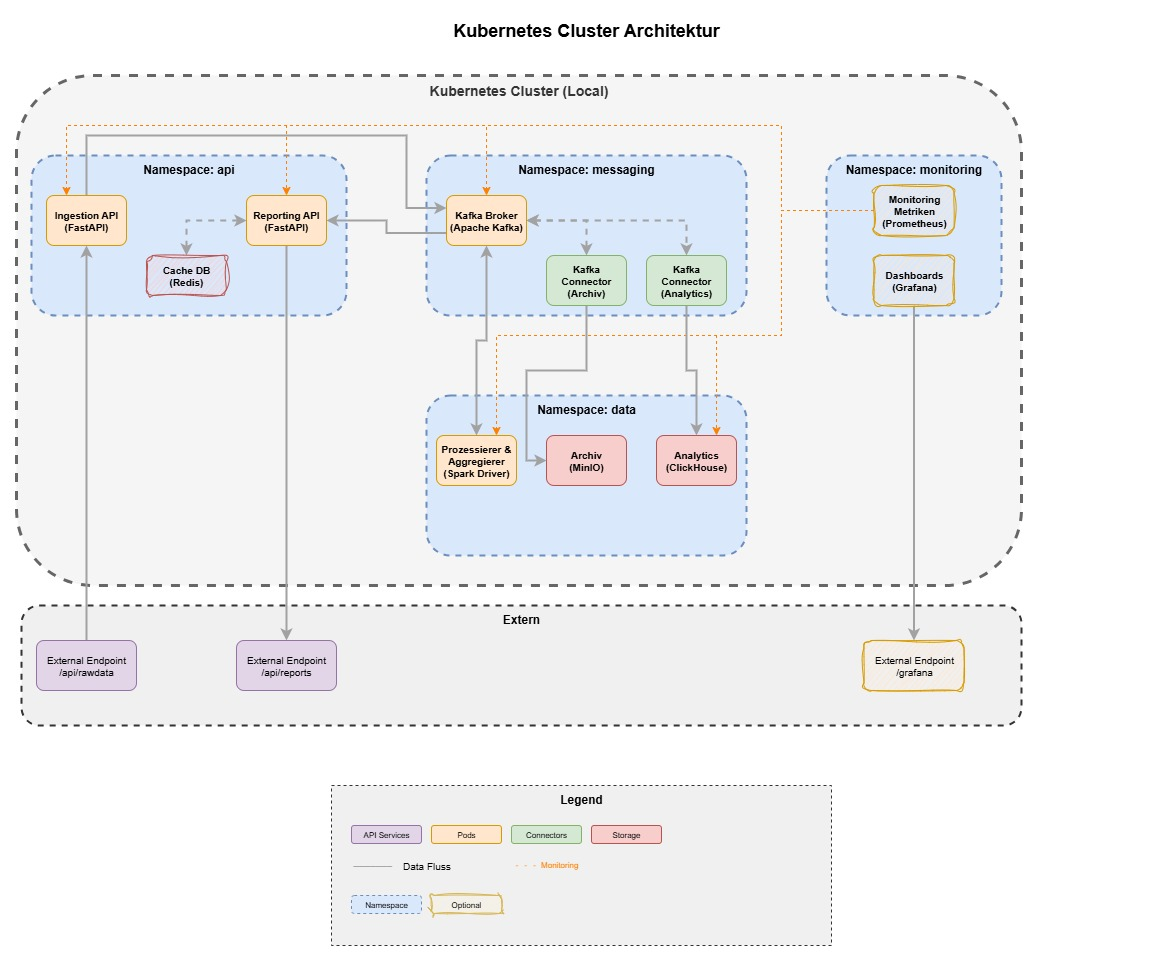
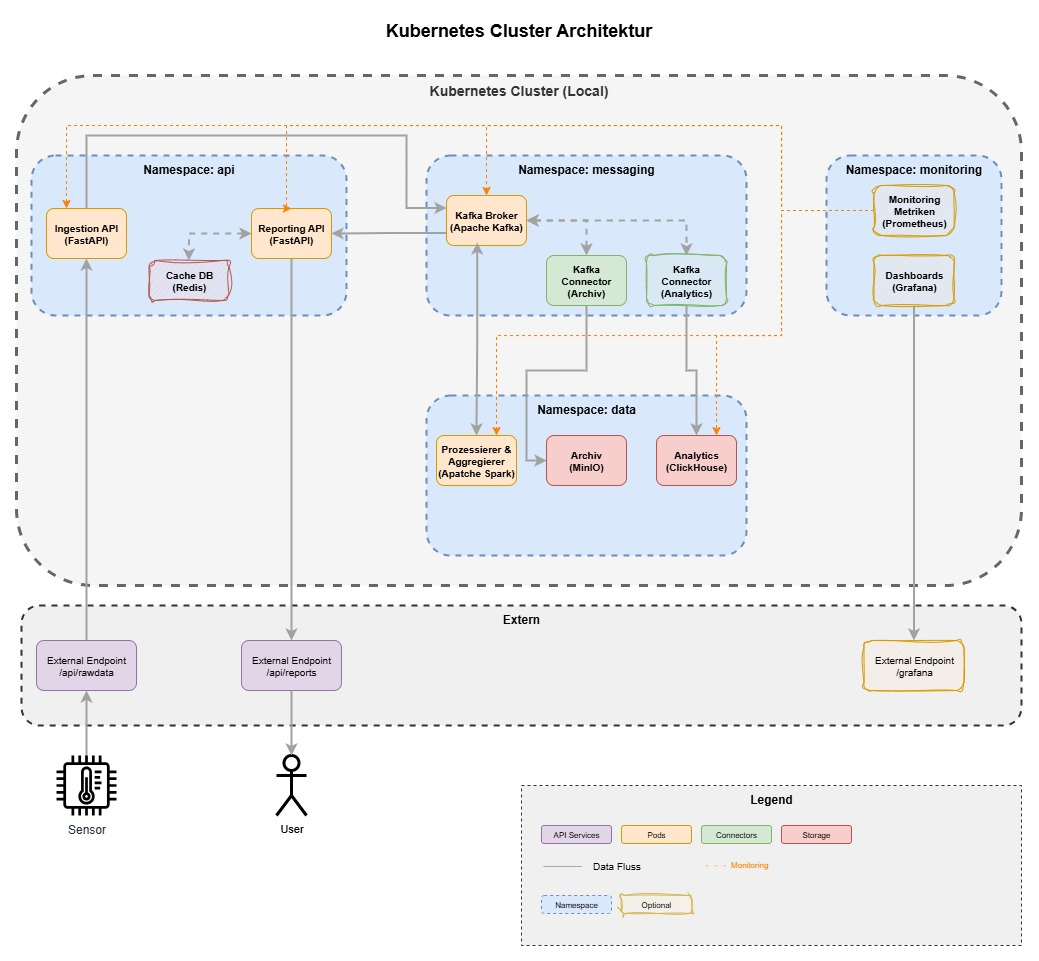
K8s-Architektur und neue K8s-Ressourcen-Bilddateien hinzugefügt

diff --git a/README.md b/README.md
@@ -1,8 +1,6 @@
 # DLMDWWDE02
 Master Data Engineering - System, was in der Lage ist, kontinuierlich massive Datenmengen auf zunehmen, diese auf effiziente Weise zu speichern, zu prozessieren, zu aggregieren, und für die direkte Nutzung  in einer Echtzeit-Reporting Applikation zur Verfügung zu stellen
 
-
-
 ## Requirements
 - Docker Engine
 - DockerCLI (winget install Docker.DockerCLI)
@@ -62,6 +60,18 @@ Für die **Datenvorprozessierung und Aggregation** kommt Apache Spark als zentra
 Die **Zuverlässigkeit, Skalierbarkeit und Wartbarkeit** des Systems werden durch verschiedene bewährte Technologien und Methoden sichergestellt. Kubernetes bildet dabei das Fundament für die Zuverlässigkeit, indem es automatische Neustarts fehlgeschlagener Pods durchführt, während Apache Kafka durch konfigurierbare Replikationsfaktoren für Datenredundanz sorgt. Persistent Volumes gewährleisten die Datenpersistierung über Pod-Neustarts hinweg, und umfassende Health Checks mit Liveness- und Readiness-Probes überwachen kontinuierlich den Zustand aller Services. Die Skalierbarkeit wird durch den Horizontal Pod Autoscaler (HPA) erreicht, der automatisch basierend auf CPU- und Memory-Verbrauch skaliert, ergänzt durch Kafka Partitioning für Parallelisierung, dynamische Spark Worker-Skalierung und ClickHouse Cluster für die Verarbeitung großer Datenmengen. Für die Wartbarkeit sorgen Helm Charts als Infrastructure as Code Lösung für reproduzierbare Deployments, GitOps für die Versionskontrolle aller Konfigurationen, umfassendes Monitoring mit Prometheus und Grafana sowie eine Microservice-Architektur mit lose gekoppelten, unabhängig deploybare Services.
 
 **Datenschutz, Datensicherheit und Data Governance** werden durch ein mehrstufiges Konzept gewährleistet. Der Datenschutz wird durch Namespace-Isolation zur Trennung der Microservices, Role-Based Access Control (RBAC) in Kubernetes und Network Policies zur Einschränkung der Pod-zu-Pod Kommunikation sichergestellt. Die Datensicherheit basiert auf TLS-Verschlüsselung für die gesamte Datenübertragung, Kubernetes Secrets Management für sichere Credential-Verwaltung, Server-side Encryption in MinIO für Objektspeicher und Database-level Access Control in ClickHouse. Für Data Governance sorgen eine zentrale Schema Registry für Kafka, umfassende Data Lineage Tracking zur Nachverfolgung des Datenflusses, Audit Logging aller Datenoperationen und automatisierte Retention Policies für die zeitgesteuerte Datenlöschung.
+
+**Datenschutz, Datensicherheit und Data Governance** werden entsprechend der implementierten Kubernetes-Architektur umgesetzt.
+
+**Datenschutz** wird auf Kubernetes-Ebene durch Namespace-basierte Isolation implementiert. Die Architektur trennt Services in dedizierte Namespaces: `api` für die FastAPI Services (Ingestion API, Reporting API), `messaging` für Kafka, `data` für Speicher-Services (ClickHouse, MinIO, Spark Driver) und `monitoring` für Prometheus und Grafana. Diese Segmentierung schafft Isolation zwischen den verschiedenen Funktionsbereichen und ermöglicht granulare Zugriffskontrolle.
+
+Die **Datensicherheit** konzentriert sich auf die tatsächlich implementierten Komponenten der Architektur. Kubernetes bietet grundlegende Sicherheit durch Namespace-Isolation und Pod-zu-Pod Kommunikationskontrolle. Die verwendeten Services unterstützen verschiedene Sicherheitsfeatures: Apache Kafka bietet optionale SSL/TLS-Verschlüsselung für Client-Verbindungen ([Kafka Security Documentation](https://kafka.apache.org/documentation/#security)), MinIO unterstützt Server-side Encryption für gespeicherte Objekte, und ClickHouse ermöglicht Benutzer-basierte Zugriffskontrolle auf Database-Level.
+
+Für **Data Governance** sind grundlegende Tracking-Mechanismen durch die Service-Architektur vorgesehen. Der Datenfluss ist klar definiert: Externe Daten gelangen über die Ingestion API zu Kafka, werden durch dedizierte Kafka Connectors zu ClickHouse (Analytics) und MinIO (Archiv) weitergeleitet, und der Spark Driver verarbeitet Daten aus Kafka für weitere Aggregationen. Redis fungiert als Cache für die Reporting API und reduziert die Belastung auf die primären Datenbanken.
+
+**Monitoring und Observability** werden durch die integrierte Prometheus-Grafana Kombination realisiert. Prometheus sammelt Metriken von allen Services (Ingestion API, Kafka, Spark Driver, ClickHouse) und ermöglicht die Überwachung der System-Performance. Grafana visualisiert diese Metriken über externe Endpunkte und bietet Dashboards für das Monitoring der Datenverarbeitungs-Pipeline.
+
+**Architektonische Sicherheitsaspekte** basieren auf der Microservice-Trennung durch Kubernetes Namespaces. Die Kafka Connectors fungieren als dedizierte Brücken zwischen Kafka und den Speicher-Services, wodurch direkte Service-zu-Service Abhängigkeiten minimiert werden. Externe Zugriffe sind nur über definierte Endpunkte möglich: `/api/rawdata` für Datenaufnahme, `/api/reports` für Reporting und `/grafana` für Monitoring-Dashboards.
 
 Die **Docker Images** basieren größtenteils auf offiziellen Images von Docker Hub, werden jedoch für spezifische Anforderungen modifiziert. Während die meisten Services wie Redis, Apache Kafka, ClickHouse, MinIO, Prometheus und Grafana unverändert eingesetzt werden können, erfordern einige Komponenten Anpassungen. So werden für die FastAPI Services Custom Dockerfiles erstellt, die auf dem Python Alpine Image basieren und spezifische Dependencies enthalten. Kafka Connect benötigt Plugin-Installationen für die ClickHouse und S3 Connectors, und die Spark Images werden mit Custom Configurations für die ClickHouse Integration ausgestattet.
 
